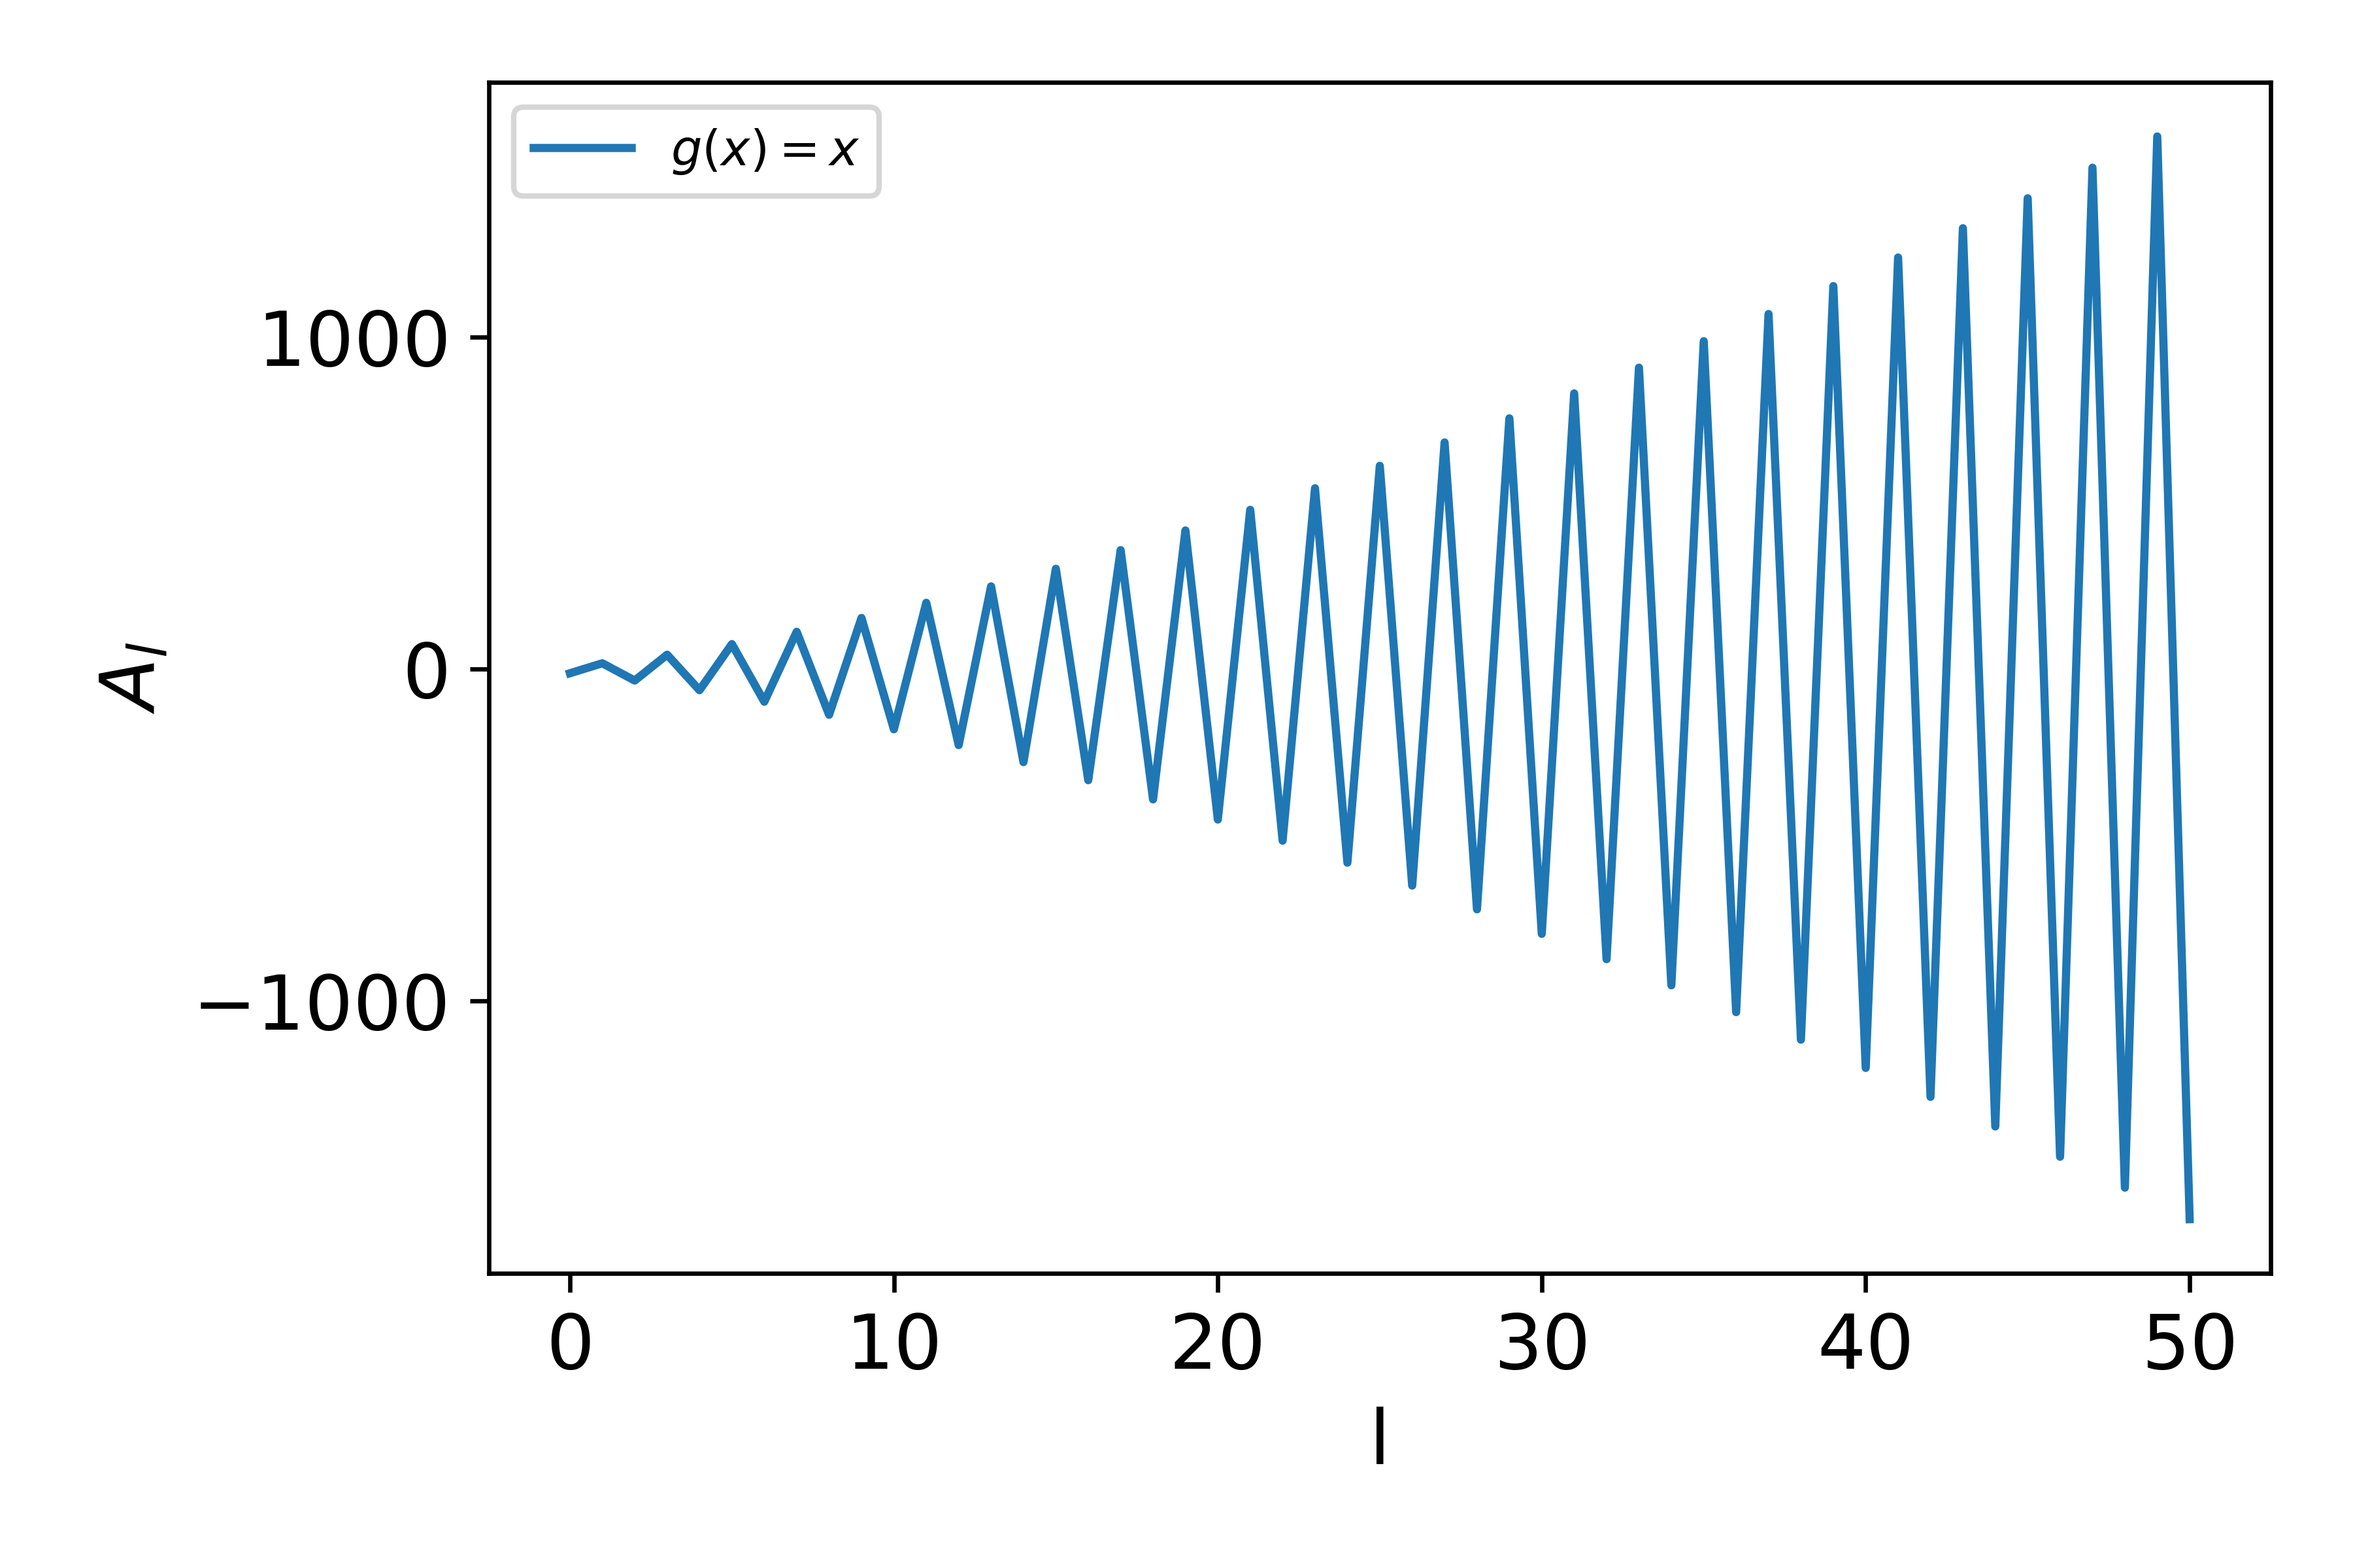
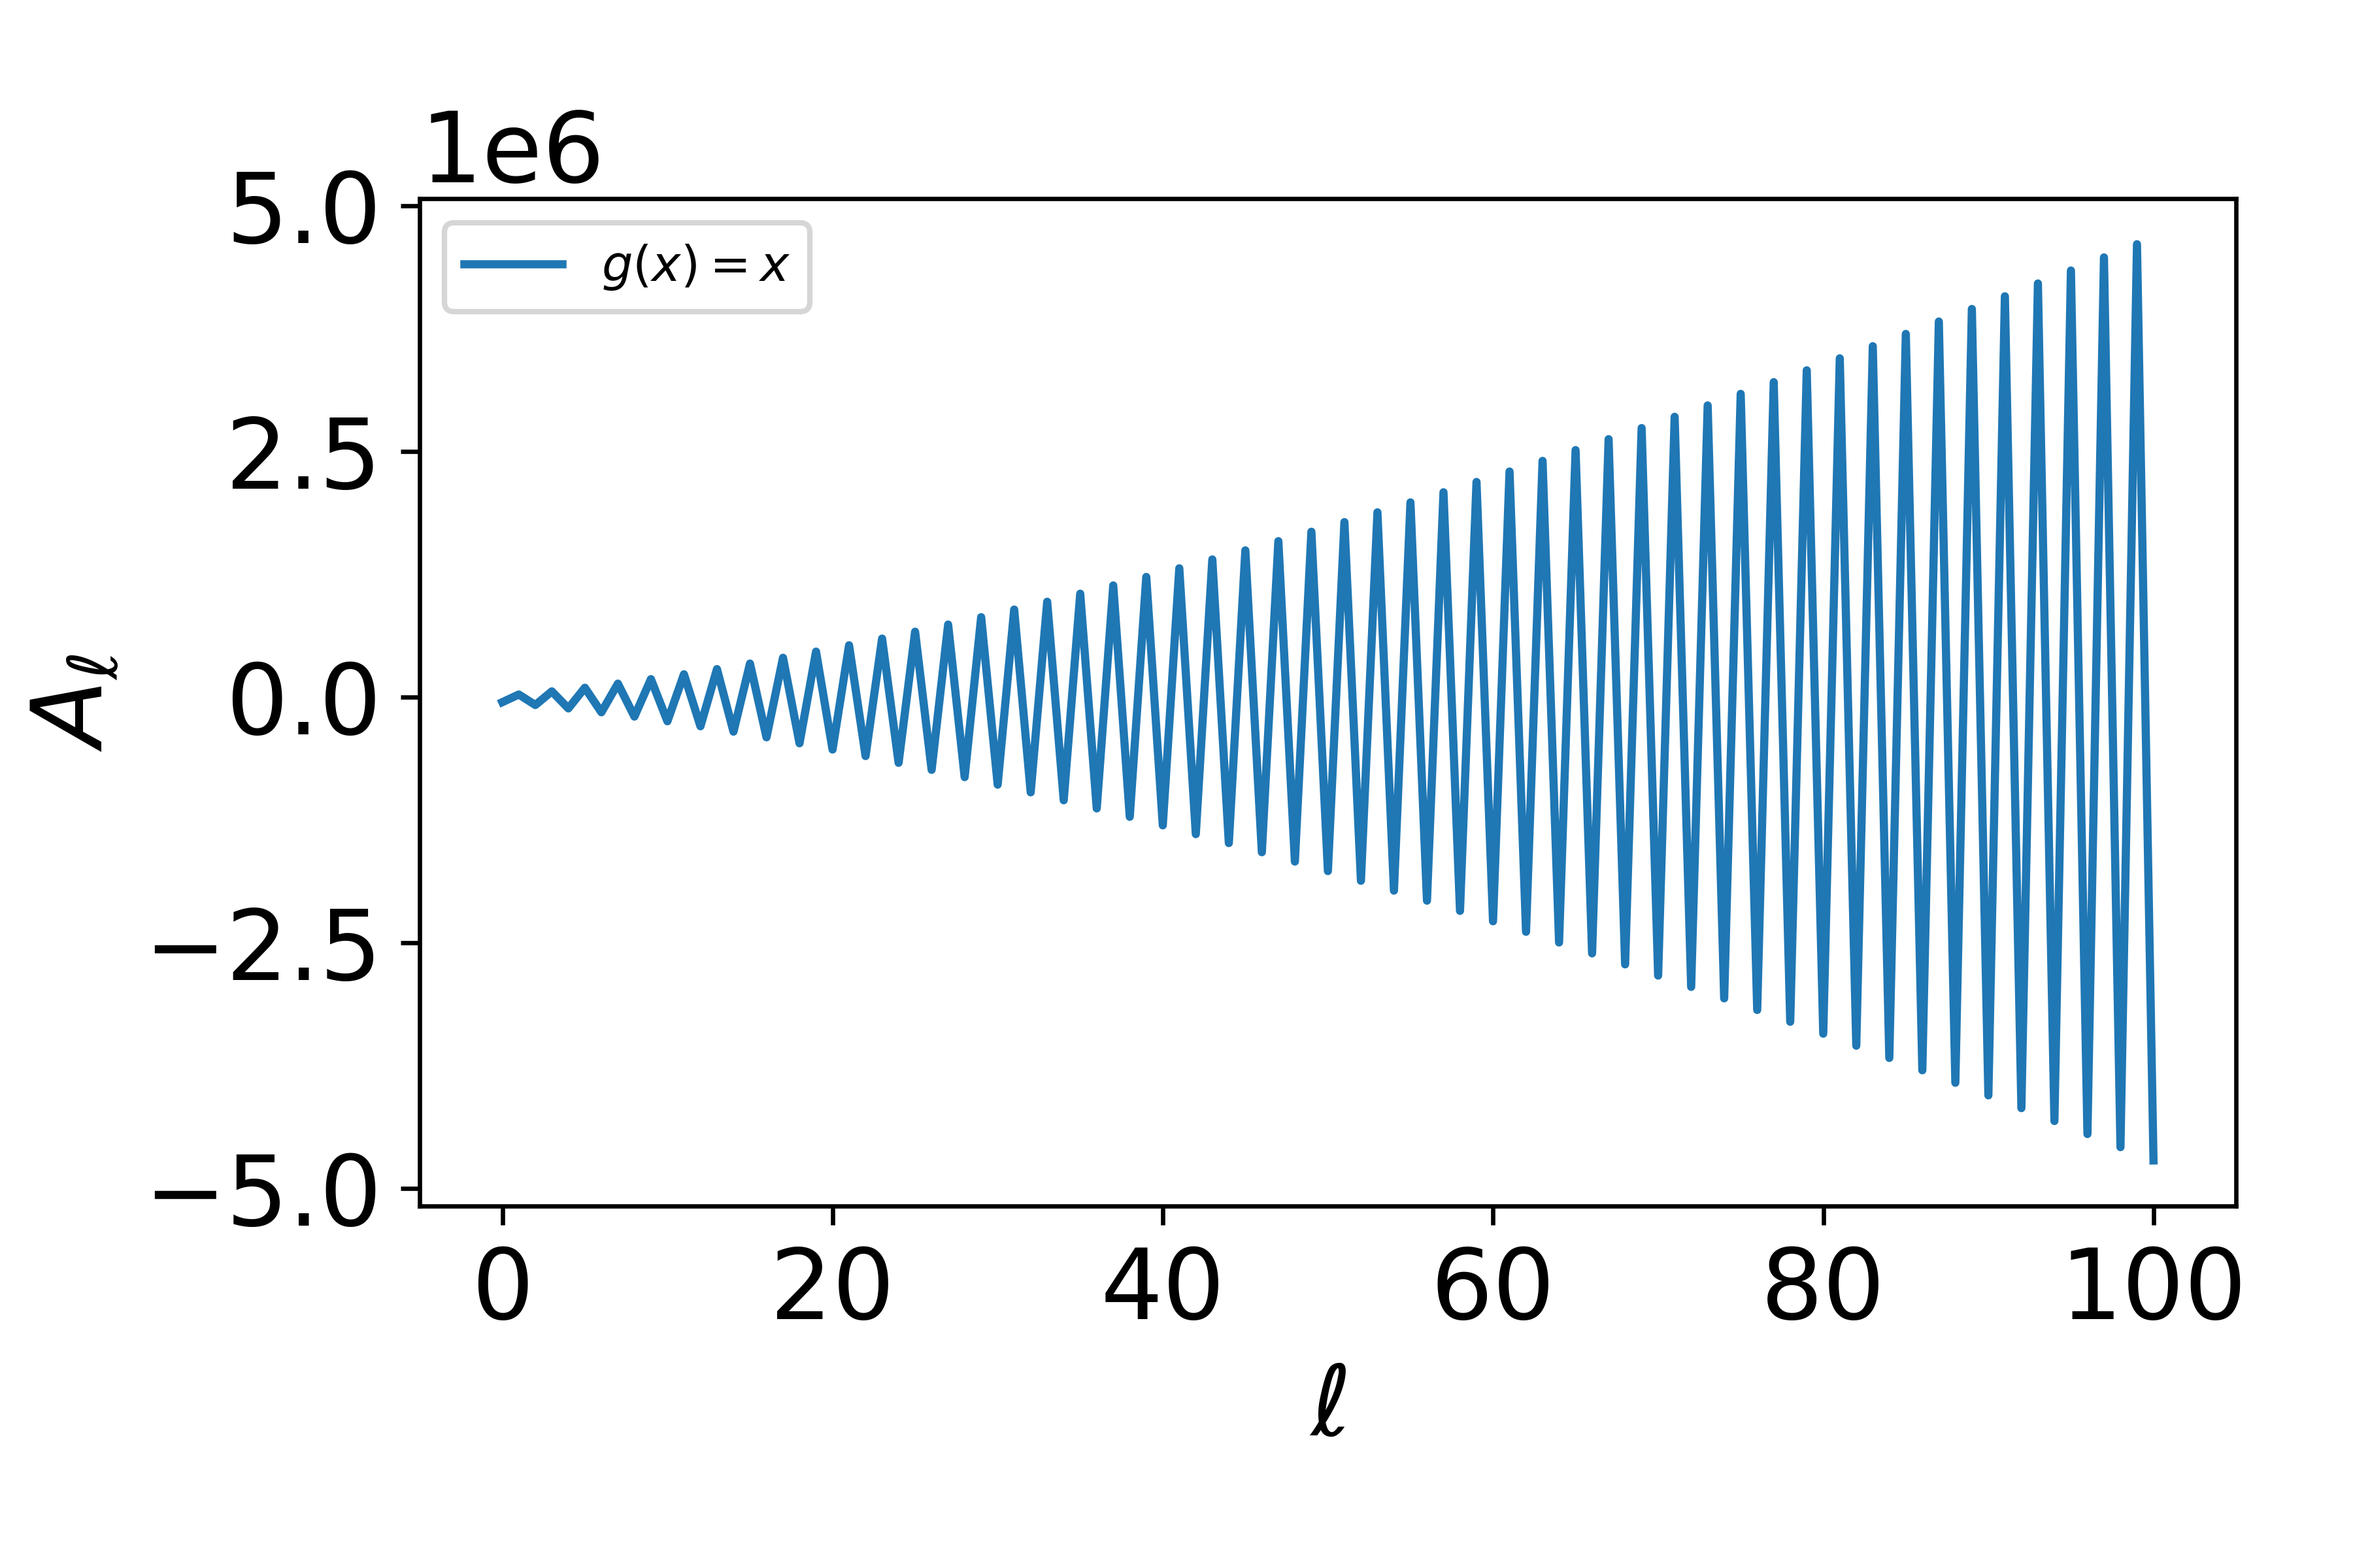
Hankel_redo

diff --git a/Projet/Code_figures.py b/Projet/Code_figures.py
@@ -82,8 +82,8 @@ def Hankel_transform(g, p, n, L):
         return x*g(x/p)/p**2 * sp.jv(n, x) 
     
     for i in range(L+1):
-       I = simpson(f, zeros[i], zeros[i+1], 10000)
-       #I = scipy.integrate.quad(f, zeros[i], zeros[i+1])[0]
+       #I = simpson(f, zeros[i], zeros[i+1], 10000)
+       I = scipy.integrate.quad(f, zeros[i], zeros[i+1])[0]
        value += I
        partial_sums.append(value)
     epsilon_value = epsilon(partial_sums)
@@ -91,25 +91,46 @@ def Hankel_transform(g, p, n, L):
 
 def f1(x): 
     return x
-p = 1
-n = 0
-L = 50
+p = 0.1
+n = 4
+L = 100
 
 p_value, partial_sums, epsilon_value = Hankel_transform(f1, p, n, L)
 
 x = np.arange(len(partial_sums))
-plt.rcParams.update({'font.size': 14})
+plt.rcParams.update({'font.size': 18})
 params = {'legend.fontsize': 9,
           'legend.handlelength': 2}
 plt.rcParams.update(params)
 plt.plot(partial_sums, label = "$g(x) = x$")
-plt.ylabel('$A_l$')
-plt.xlabel('l')
+plt.ylabel('$A_\ell$')
+plt.xlabel('$\ell$')
 plt.tight_layout()
 plt.legend()
 plt.savefig('figures/Whitout_espilon_x', dpi=600)
 plt.show()
 
+def f1(x): 
+    return np.cos(x)
+p = 0.1
+n = 0
+L = 1000
+
+p_value, partial_sums, epsilon_value = Hankel_transform(f1, p, n, L)
+
+x = np.arange(len(partial_sums))
+
+plt.rcParams.update({'font.size': 18})
+params = {'legend.fontsize': 9,
+          'legend.handlelength': 2}
+plt.rcParams.update(params)
+plt.plot(partial_sums, label = "$g(x) = cos(x)$")
+plt.ylabel('$A_\ell$')
+plt.xlabel('$\ell$')
+plt.tight_layout()
+plt.legend()
+plt.savefig('figures/Whitout_espilon_cos', dpi=600)
+plt.show()
 
 
 

diff --git a/Projet/Hankel_Transform_frank.py b/Projet/Hankel_Transform_frank.py
@@ -8,8 +8,6 @@ import scipy.integrate
 import numpy as np
 import scipy.special as sp
 import matplotlib.pyplot as plt
-from matplotlib.ticker import (MultipleLocator, FormatStrFormatter,
-                               AutoMinorLocator)
 
 def epsilon(terms):
     """
@@ -75,8 +73,8 @@ def Hankel_transform(g, p, n, L):
         return x*g(x/p)/p**2 * sp.jv(n, x) 
     
     for i in range(L+1):
-       I = simpson(f, zeros[i], zeros[i+1], 10000)
-       #I = scipy.integrate.quad(f, zeros[i], zeros[i+1])[0]
+       #I = simpson(f, zeros[i], zeros[i+1], 1000)
+       I = scipy.integrate.quad(f, zeros[i], zeros[i+1])[0]
        value += I
        partial_sums.append(value)
     epsilon_value = epsilon(partial_sums)
@@ -84,36 +82,19 @@ def Hankel_transform(g, p, n, L):
 
 def f1(x): 
     return x
-p = 1
+p = 50
 n = 0
-L = 50
+L = 10
 
 p_value, partial_sums, epsilon_value = Hankel_transform(f1, p, n, L)
 
-x = np.arange(len(partial_sums))
-plt.rcParams.update({'font.size': 14})
-params = {'legend.fontsize': 9,
-          'legend.handlelength': 2}
-plt.rcParams.update(params)
-plt.plot(partial_sums, label = "$g(x) = x$")
-plt.ylabel('$A_l$')
-plt.xlabel('l')
-plt.tight_layout()
-plt.legend()
-plt.savefig('figures/Whitout_espilon_x', dpi=600)
+
+
+F = []
+for i in range(1, p+1):
+    F.append(Hankel_transform(f1, i, n, L)[2])
+
+x = np.arange(1, 51, 1)
+plt.plot(x, F)
+plt.plot(x, -1/x**3)
 plt.show()
-
-
-
-
-
-
-
-#F = []
-#for i in range(1, p+1):
-#    F.append(Hankel_transform(f1, i, n, L)[2])
-
-#x = np.arange(1, 51, 1)
-#plt.plot(x, F)
-#plt.plot(x, -1/x**3)
-#plt.show()
